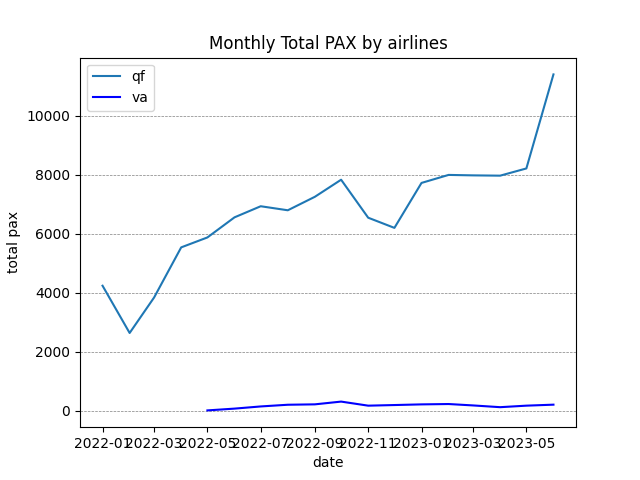
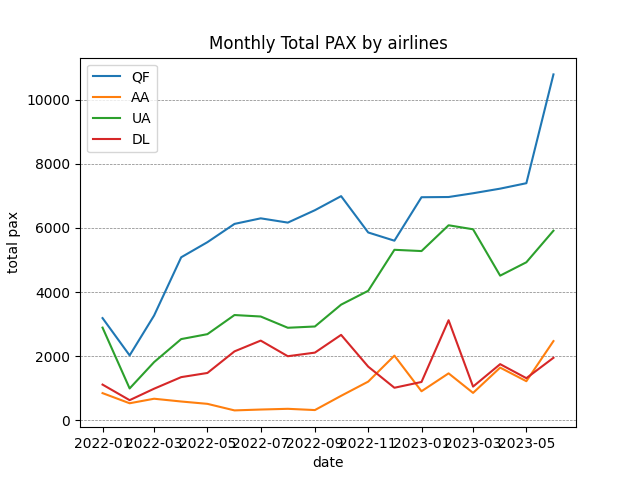
new plot

diff --git a/trytry.py b/trytry.py
@@ -11,19 +11,77 @@ db_uri = 'postgresql://student003:chihrusvfnihdipp@dataviation-database-1.chl8zb
 engine = create_engine(db_uri, echo=False)
 conn = engine.connect()
 
-am_df = pd.read_sql_query(text("SELECT DISTINCT ON (DATE_TRUNC('month', \"Year-Month-Day\")) DATE_TRUNC('month', \"Year-Month-Day\") AS month, SUM(\"Total Pax\") as qf FROM cirium_traffic_northamerica WHERE \"Year-Month-Day\">= '2022-01-01' AND \"Orig\" IN ('YVR','LAX','IAH','DFW','SFO','JFK','SCL') AND \"Stop-1 Airport\" is null AND \"Op Al\" IN ('QF') AND \"Total Pax\" >0 GROUP BY \"Year-Month-Day\" LIMIT 10000;"), conn)
-am_df1 = pd.read_sql_query(text("SELECT DISTINCT ON (DATE_TRUNC('month', \"Year-Month-Day\")) DATE_TRUNC('month', \"Year-Month-Day\") AS month, SUM(\"Total Pax\") as va FROM cirium_traffic_northamerica WHERE \"Year-Month-Day\">= '2022-01-01' AND \"Orig\" IN ('YVR','LAX','IAH','DFW','SFO','JFK','SCL') AND \"Stop-1 Airport\" is null AND \"Op Al\" IN ('VA') AND \"Total Pax\" >0 GROUP BY \"Year-Month-Day\" LIMIT 10000;"), conn)
+am_df = pd.read_sql_query(text("SELECT DISTINCT ON (DATE_TRUNC('month', \"Year-Month-Day\")) DATE_TRUNC('month', \"Year-Month-Day\") AS month, SUM(\"Total Pax\") as qf FROM cirium_traffic_northamerica WHERE \"Year-Month-Day\">= '2022-01-01' AND \"Orig\" IN ('LAX', 'SFO', 'DFW', 'IAH') AND \"Stop-1 Airport\" is null AND \"Op Al\" IN ('QF') AND \"Total Pax\" >0 GROUP BY \"Year-Month-Day\" LIMIT 10000;"), conn)
+am_df1 = pd.read_sql_query(text("SELECT DISTINCT ON (DATE_TRUNC('month', \"Year-Month-Day\")) DATE_TRUNC('month', \"Year-Month-Day\") AS month, SUM(\"Total Pax\") as aa FROM cirium_traffic_northamerica WHERE \"Year-Month-Day\">= '2022-01-01' AND \"Orig\" IN ('LAX', 'SFO', 'DFW', 'IAH') AND \"Stop-1 Airport\" is null AND \"Op Al\" IN ('AA') AND \"Total Pax\" >0 GROUP BY \"Year-Month-Day\" LIMIT 10000;"), conn)
+am_df2 = pd.read_sql_query(text("SELECT DISTINCT ON (DATE_TRUNC('month', \"Year-Month-Day\")) DATE_TRUNC('month', \"Year-Month-Day\") AS month, SUM(\"Total Pax\") as ua FROM cirium_traffic_northamerica WHERE \"Year-Month-Day\">= '2022-01-01' AND \"Orig\" IN ('LAX', 'SFO', 'DFW', 'IAH') AND \"Stop-1 Airport\" is null AND \"Op Al\" IN ('UA') AND \"Total Pax\" >0 GROUP BY \"Year-Month-Day\" LIMIT 10000;"), conn)
+am_df3 = pd.read_sql_query(text("SELECT DISTINCT ON (DATE_TRUNC('month', \"Year-Month-Day\")) DATE_TRUNC('month', \"Year-Month-Day\") AS month, SUM(\"Total Pax\") as dl FROM cirium_traffic_northamerica WHERE \"Year-Month-Day\">= '2022-01-01' AND \"Orig\" IN ('LAX', 'SFO', 'DFW', 'IAH') AND \"Stop-1 Airport\" is null AND \"Op Al\" IN ('DL') AND \"Total Pax\" >0 GROUP BY \"Year-Month-Day\" LIMIT 10000;"), conn)
 
 print(am_df)
 print(am_df1)
-result = pd.merge(am_df, am_df1, how="outer")
+print(am_df2)
+print(am_df3)
+
+dfs = [am_df, am_df1, am_df2, am_df3]
+dfs = [df.set_index('month') for df in dfs]
+result=dfs[0].join(dfs[1:])
+
 print(result)
 
-plt.plot(result.month, result.qf)
-plt.plot(result.month, result.va, c= 'b')
-plt.legend(['qf','va'])
-plt.title('Monthly Total PAX by airlines')
+plt.plot(result)
+plt. legend(['QF','AA','UA','DL'])
+plt. title('Monthly Total PAX by airlines')
 plt.xlabel('date')
-plt.ylabel('total pax')
-plt.grid(axis = 'y', color = 'grey', linestyle = '--', linewidth = 0.5)
+plt. ylabel('total pax')
+plt. grid(axis= 'y', color= 'grey', linestyle = '--', linewidth = 0.5)
 plt.savefig('sum_paxAL.png')
+
+
+
+am_df = pd.read_sql_query(text("SELECT DISTINCT ON (DATE_TRUNC('month', \"Year-Month-Day\")) DATE_TRUNC('month', \"Year-Month-Day\") AS month, AVG(\"Yield\")as qf FROM cirium_traffic_northamerica WHERE \"Year-Month-Day\">= '2022-01-01' AND \"Orig\" IN ('LAX', 'SFO', 'DFW', 'IAH') AND \"Stop-1 Airport\" is null AND \"Op Al\" IN ('QF') AND \"Total Pax\" >0 GROUP BY \"Year-Month-Day\" LIMIT 10000;"), conn)
+am_df1 = pd.read_sql_query(text("SELECT DISTINCT ON (DATE_TRUNC('month', \"Year-Month-Day\")) DATE_TRUNC('month', \"Year-Month-Day\") AS month, AVG(\"Yield\")as aa FROM cirium_traffic_northamerica WHERE \"Year-Month-Day\">= '2022-01-01' AND \"Orig\" IN ('LAX', 'SFO', 'DFW', 'IAH') AND \"Stop-1 Airport\" is null AND \"Op Al\" IN ('AA') AND \"Total Pax\" >0 GROUP BY \"Year-Month-Day\" LIMIT 10000;"), conn)
+am_df2 = pd.read_sql_query(text("SELECT DISTINCT ON (DATE_TRUNC('month', \"Year-Month-Day\")) DATE_TRUNC('month', \"Year-Month-Day\") AS month, AVG(\"Yield\")as ua FROM cirium_traffic_northamerica WHERE \"Year-Month-Day\">= '2022-01-01' AND \"Orig\" IN ('LAX', 'SFO', 'DFW', 'IAH') AND \"Stop-1 Airport\" is null AND \"Op Al\" IN ('UA') AND \"Total Pax\" >0 GROUP BY \"Year-Month-Day\" LIMIT 10000;"), conn)
+am_df3 = pd.read_sql_query(text("SELECT DISTINCT ON (DATE_TRUNC('month', \"Year-Month-Day\")) DATE_TRUNC('month', \"Year-Month-Day\") AS month, AVG(\"Yield\")as dl FROM cirium_traffic_northamerica WHERE \"Year-Month-Day\">= '2022-01-01' AND \"Orig\" IN ('LAX', 'SFO', 'DFW', 'IAH') AND \"Stop-1 Airport\" is null AND \"Op Al\" IN ('DL') AND \"Total Pax\" >0 GROUP BY \"Year-Month-Day\" LIMIT 10000;"), conn)
+
+print(am_df)
+print(am_df1)
+print(am_df2)
+print(am_df3)
+
+dfs = [am_df, am_df1, am_df2, am_df3]
+dfs = [df.set_index('month') for df in dfs]
+answer=dfs[0].join(dfs[1:])
+
+print(answer)
+
+plt.plot(answer)
+plt. legend(['QF','AA','UA','DL'])
+plt. title('Monthly Average Yield by airlines')
+plt.xlabel('date')
+plt. ylabel('average yield')
+plt. grid(axis= 'y', color= 'grey', linestyle = '--', linewidth = 0.5)
+plt.savefig('avg_yieldAL.png')
+
+
+am_df = pd.read_sql_query(text("SELECT DISTINCT ON (DATE_TRUNC('month', \"Year-Month-Day\")) DATE_TRUNC('month', \"Year-Month-Day\") AS month, SUM(\"Seats\") as qf FROM cirium_schedule_northamerica WHERE \"Year-Month-Day\">= '2022-01-01' AND \"Orig\" IN ('LAX', 'SFO', 'DFW', 'IAH') AND \"Stop-1 Airport\" is null AND \"Op Al\" IN ('QF') GROUP BY \"Year-Month-Day\" LIMIT 10000;"), conn)
+am_df1 = pd.read_sql_query(text("SELECT DISTINCT ON (DATE_TRUNC('month', \"Year-Month-Day\")) DATE_TRUNC('month', \"Year-Month-Day\") AS month, SUM(\"Seats\") as aa FROM cirium_schedule_northamerica WHERE \"Year-Month-Day\">= '2022-01-01' AND \"Orig\" IN ('LAX', 'SFO', 'DFW', 'IAH') AND \"Stop-1 Airport\" is null AND \"Op Al\" IN ('AA') GROUP BY \"Year-Month-Day\" LIMIT 10000;"), conn)
+am_df2 = pd.read_sql_query(text("SELECT DISTINCT ON (DATE_TRUNC('month', \"Year-Month-Day\")) DATE_TRUNC('month', \"Year-Month-Day\") AS month, SUM(\"Seats\") as ua FROM cirium_schedule_northamerica WHERE \"Year-Month-Day\">= '2022-01-01' AND \"Orig\" IN ('LAX', 'SFO', 'DFW', 'IAH') AND \"Stop-1 Airport\" is null AND \"Op Al\" IN ('UA') GROUP BY \"Year-Month-Day\" LIMIT 10000;"), conn)
+am_df3 = pd.read_sql_query(text("SELECT DISTINCT ON (DATE_TRUNC('month', \"Year-Month-Day\")) DATE_TRUNC('month', \"Year-Month-Day\") AS month, SUM(\"Seats\") as dl FROM cirium_schedule_northamerica WHERE \"Year-Month-Day\">= '2022-01-01' AND \"Orig\" IN ('LAX', 'SFO', 'DFW', 'IAH') AND \"Stop-1 Airport\" is null AND \"Op Al\" IN ('DL') GROUP BY \"Year-Month-Day\" LIMIT 10000;"), conn)
+
+print(am_df)
+print(am_df1)
+print(am_df2)
+print(am_df3)
+
+dfs = [am_df, am_df1, am_df2, am_df3]
+dfs = [df.set_index('month') for df in dfs]
+final=dfs[0].join(dfs[1:])
+
+print(final)
+
+plt.plot(final)
+plt. legend(['QF','AA','UA','DL'])
+plt. title('Monthly Total Seats by airlines')
+plt.xlabel('date')
+plt. ylabel('total seats')
+plt. grid(axis= 'y', color= 'grey', linestyle = '--', linewidth = 0.5)
+plt.savefig('sum_seatsAL.png')
